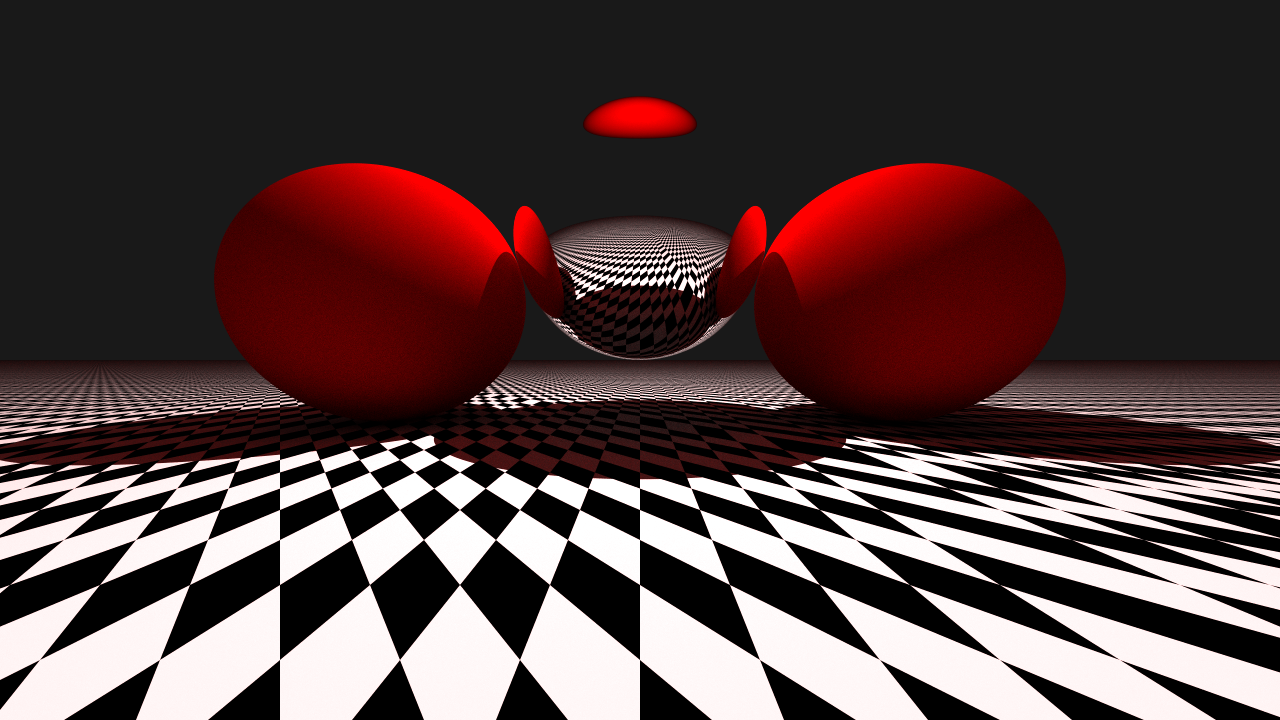
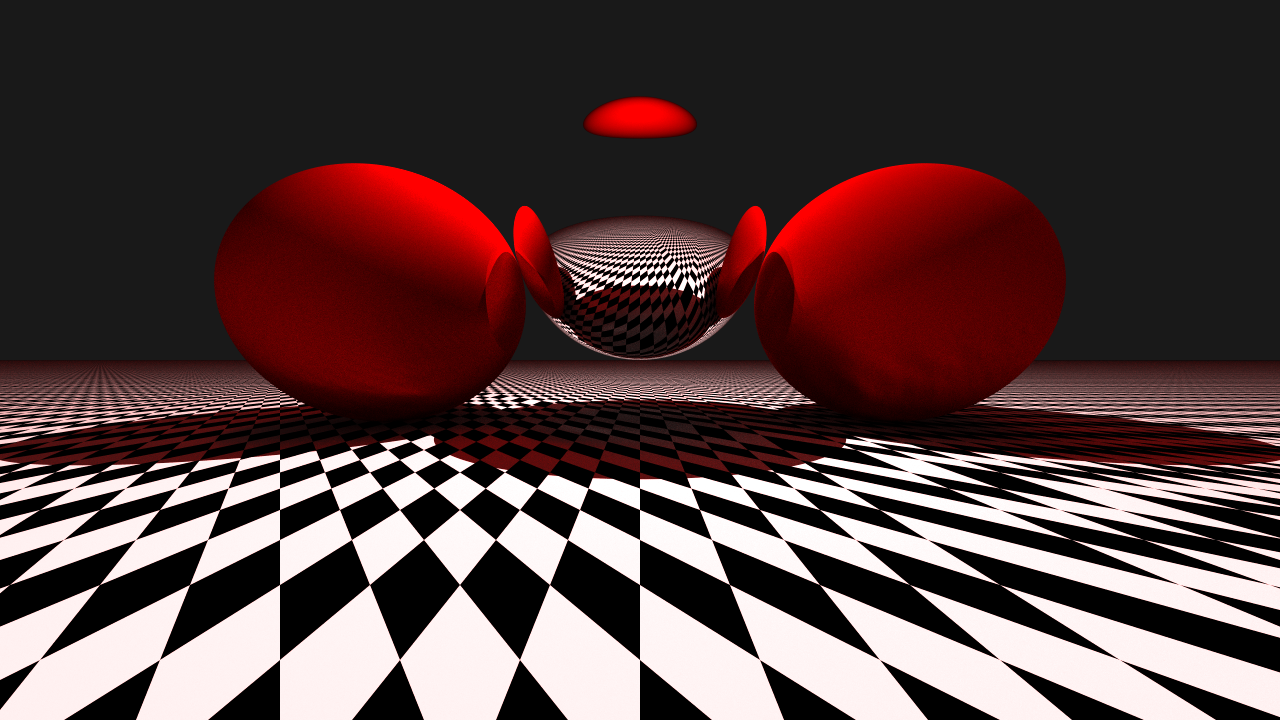
chose the other one

diff --git a/src/material/mod.rs b/src/material/mod.rs
@@ -6,6 +6,7 @@ use rand::prelude::*;
 pub struct Material {
     pub albedo: Vec3<FloatSize>,
     pub reflectivity: FloatSize,
+    pub checkered: bool,
 }
 
 fn random_unit_vector(rand_state: &mut ThreadRng) -> Vec3<FloatSize> {
@@ -76,9 +77,9 @@ impl Material {
         is_left: bool,
     ) -> Ray {
         let mut random = if is_left {
-            cosine_weighted_sample_1(&hit_record.normal, rand_state)
-        } else {
             cosine_weighted_sample_2(&hit_record.normal, rand_state)
+        } else {
+            cosine_weighted_sample_1(&hit_record.normal, rand_state)
             // random_unit_vector(rand_state)
         };
         if random.dot(&hit_record.normal) < 0.0 {
@@ -92,18 +93,22 @@ impl Material {
     }
 
     pub fn color(&self, hit_record: &HitRecord) -> Vec3<FloatSize> {
-        match hit_record.uv {
-            Some(uv) => {
-                let u = uv.x();
-                let v = uv.y();
-                // checkered pattern
-                if (((u * 10.0).floor() as i32) + ((v * 10.0).floor() as i32)) % 2 == 0 {
-                    Vec3::new([0.0, 0.0, 0.0])
-                } else {
-                    Vec3::new([1.0, 1.0, 1.0])
+        if self.checkered {
+            match hit_record.uv {
+                Some(uv) => {
+                    let u = uv.x();
+                    let v = uv.y();
+                    // checkered pattern
+                    if (((u * 10.0).floor() as i32) + ((v * 10.0).floor() as i32)) % 2 == 0 {
+                        Vec3::new([0.0, 0.0, 0.0])
+                    } else {
+                        Vec3::new([1.0, 1.0, 1.0])
+                    }
                 }
+                None => self.albedo,
             }
-            None => self.albedo,
+        } else {
+            self.albedo
         }
     }
 
@@ -115,6 +120,7 @@ impl Material {
         Material {
             albedo: Vec3::new([1.0, 1.0, 1.0]),
             reflectivity: 1.0,
+            checkered: false,
         }
     }
 
@@ -122,6 +128,7 @@ impl Material {
         Material {
             albedo: Vec3::new([1.0, 0.0, 0.0]),
             reflectivity: 0.0,
+            checkered: false,
         }
     }
 
@@ -129,6 +136,7 @@ impl Material {
         Material {
             albedo: Vec3::new([0.0, 1.0, 0.0]),
             reflectivity: 0.0,
+            checkered: false,
         }
     }
 
@@ -136,6 +144,7 @@ impl Material {
         Material {
             albedo: Vec3::new([0.0, 0.0, 1.0]),
             reflectivity: 0.0,
+            checkered: false,
         }
     }
 
@@ -143,6 +152,15 @@ impl Material {
         Material {
             albedo: Vec3::new([1.0, 1.0, 1.0]),
             reflectivity: 0.0,
+            checkered: false,
+        }
+    }
+
+    pub fn checkered() -> Material {
+        Material {
+            albedo: Vec3::new([1.0, 1.0, 1.0]),
+            reflectivity: 0.0,
+            checkered: true,
         }
     }
 
@@ -150,6 +168,7 @@ impl Material {
         Material {
             albedo: Vec3::new([0.0, 0.0, 0.0]),
             reflectivity: 0.0,
+            checkered: false,
         }
     }
 }

diff --git a/src/scene/mod.rs b/src/scene/mod.rs
@@ -114,49 +114,49 @@ impl Scene {
 
         // Floor
         objects.push(Box::new(Quad::new(
-            Vec3::new([-1.0, 0.0, -1.0]),
-            Vec3::new([1.0, 0.0, -1.0]),
             Vec3::new([1.0, 0.0, 1.0]),
+            Vec3::new([1.0, 0.0, -1.0]),
+            Vec3::new([-1.0, 0.0, -1.0]),
             Vec3::new([-1.0, 0.0, 1.0]),
             Material::white(),
         )));
         // Ceiling
-        objects.push(Box::new(Quad::new(
-            Vec3::new([-1.0, 2.0, -1.0]),
-            Vec3::new([1.0, 2.0, -1.0]),
-            Vec3::new([1.0, 2.0, 1.0]),
-            Vec3::new([-1.0, 2.0, 1.0]),
-            Material::white(),
-        )));
-        // Back wall
-        objects.push(Box::new(Quad::new(
-            Vec3::new([-1.0, 0.0, -1.0]),
-            Vec3::new([1.0, 0.0, -1.0]),
-            Vec3::new([1.0, 2.0, -1.0]),
-            Vec3::new([-1.0, 2.0, -1.0]),
-            Material::white(),
-        )));
-        // Right wall (Green)
-        objects.push(Box::new(Quad::new(
-            Vec3::new([1.0, 0.0, -1.0]),
-            Vec3::new([1.0, 0.0, 1.0]),
-            Vec3::new([1.0, 2.0, 1.0]),
-            Vec3::new([1.0, 2.0, -1.0]),
-            Material::green(),
-        )));
-        // Left wall (Red)
-        objects.push(Box::new(Quad::new(
-            Vec3::new([-1.0, 0.0, -1.0]),
-            Vec3::new([-1.0, 0.0, 1.0]),
-            Vec3::new([-1.0, 2.0, 1.0]),
-            Vec3::new([-1.0, 2.0, -1.0]),
-            Material::red(),
-        )));
-
-        // lights.push(Box::new(PointLight::new(
-        //     Vec3::new([0.0, 1.9, 0.0]),
-        //     Vec3::new([15.0, 15.0, 15.0]),
+        // objects.push(Box::new(Quad::new(
+        //     Vec3::new([1.0, 2.0, 1.0]),
+        //     Vec3::new([1.0, 2.0, -1.0]),
+        //     Vec3::new([-1.0, 2.0, -1.0]),
+        //     Vec3::new([-1.0, 2.0, 1.0]),
+        //     Material::white(),
         // )));
+        // // Back wall
+        objects.push(Box::new(Quad::new(
+            Vec3::new([-1.0, 0.0, -1.0]),
+            Vec3::new([1.0, 0.0, -1.0]),
+            Vec3::new([1.0, 2.0, -1.0]),
+            Vec3::new([-1.0, 2.0, -1.0]),
+            Material::white(),
+        )));
+        // // Right wall (Green)
+        // objects.push(Box::new(Quad::new(
+        //     Vec3::new([1.0, 0.0, -1.0]),
+        //     Vec3::new([1.0, 0.0, 1.0]),
+        //     Vec3::new([1.0, 2.0, 1.0]),
+        //     Vec3::new([1.0, 2.0, -1.0]),
+        //     Material::green(),
+        // )));
+        // // Left wall (Red)
+        // objects.push(Box::new(Quad::new(
+        //     Vec3::new([-1.0, 0.0, -1.0]),
+        //     Vec3::new([-1.0, 0.0, 1.0]),
+        //     Vec3::new([-1.0, 2.0, 1.0]),
+        //     Vec3::new([-1.0, 2.0, -1.0]),
+        //     Material::red(),
+        // )));
+
+        lights.push(Box::new(PointLight::new(
+            Vec3::new([0.0, 1.9, 0.0]),
+            Vec3::new([15.0, 15.0, 15.0]),
+        )));
 
         let camera = Camera::new(Vec3::new([0.0, 1.0, 3.0]), Vec3::new([0.0, 0.0, -1.0]));
         let skybox = Skybox {

diff --git a/src/main.rs b/src/main.rs
@@ -42,7 +42,7 @@ fn main() {
                     Vec3::new([1.0, 0.0, -1.0]),
                     Vec3::new([-1.0, 0.0, -1.0]),
                     Vec3::new([-1.0, 0.0, 1.0]),
-                    Material::white(),
+                    Material::checkered(),
                 )),
             ],
             lights: vec![Box::new(PointLight::new(
@@ -68,7 +68,7 @@ fn main() {
     };
 
     let mut encoder = png::Encoder::new(
-        std::fs::File::create("cornell_box.png").unwrap(),
+        std::fs::File::create("output.png").unwrap(),
         WIDTH as u32,
         HEIGHT as u32,
     );

diff --git a/tests/tests.rs b/tests/tests.rs
@@ -1,10 +1,9 @@
 // trace the cornell box and write it to conrell_box.png
 extern crate pathtracer;
 
-const MULTIPLIER: usize = 2;
-const WIDTH: usize = 640 * MULTIPLIER;
-const HEIGHT: usize = 360 * MULTIPLIER;
-const SAMPLE_COUNT: usize = 256 * MULTIPLIER;
+const WIDTH: usize = 640;
+const HEIGHT: usize = 360;
+const SAMPLE_COUNT: usize = 1;
 #[cfg(test)]
 #[test]
 fn cornell_box() {
